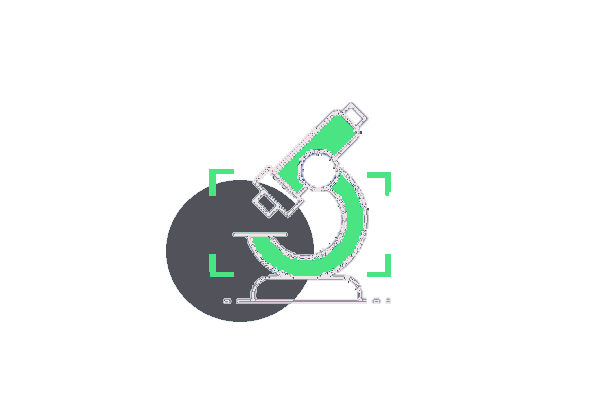
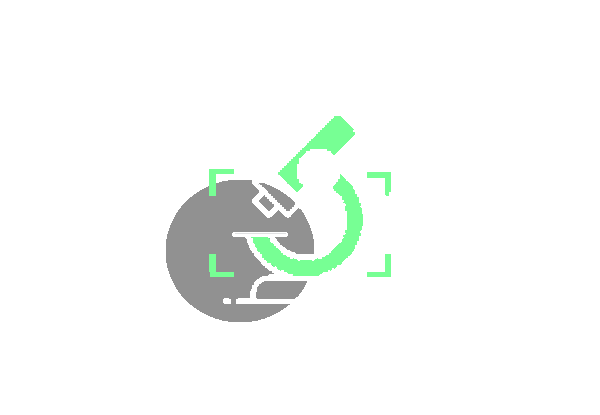
tema dark v2

Changed region(s): [[0.27, 0.2313, 0.66, 0.7807]]

diff --git a/src/renderer/esymia/application/dashboardTabsManagement/tabs/projects/components/ProjectTabContent/MyFiles.tsx b/src/renderer/esymia/application/dashboardTabsManagement/tabs/projects/components/ProjectTabContent/MyFiles.tsx
@@ -12,6 +12,7 @@ import { DraggableProjectCard } from '../droppableDraggableFolderProject/Draggab
 import { SearchUserAndShare } from '../droppableDraggableFolderProject/searchUserAndShare/searchUserAndShare';
 import { CreateNewFolderModal } from '../CreateNewFolderModal';
 import noProjectsIcon2 from '../../../../../../../../../assets/noProjectsIcon2.png';
+import noProjectsIcon2Dark from '../../../../../../../../../assets/noProjectsIcon2Dark.png';
 import { Folder } from '../../../../../../model/esymiaModels';
 import { setShowCreateNewProjectModal, ThemeSelector } from '../../../../../../store/tabsAndMenuItemsSlice';
 
@@ -40,7 +41,7 @@ const MyFiles: React.FC<MyFilesProps> = ({
 
   return (
     <DndProvider backend={HTML5Backend}>
-      <div className={`box ${theme === 'light' ? 'bg-white' : 'bg-bgColorDark2'} w-full h-[470px]`}>
+      <div className={`box ${theme === 'light' ? 'bg-white text-textColor' : 'bg-bgColorDark2 text-textColorDark'} w-full h-[470px]`}>
         {/* <div className="flex p-2 gap-4 items-center">
           <div className="sm:w-3/5 w-1/5">
             <h5 className="text-base">Files</h5>
@@ -148,13 +149,13 @@ const MyFiles: React.FC<MyFilesProps> = ({
           ) : (
             <div className="text-center p-[20px]">
               <img
-                src={noProjectsIcon2}
+                src={theme === 'light' ? noProjectsIcon2 : noProjectsIcon2Dark}
                 className="my-[50px] mx-auto"
                 alt="No Projects Icon"
               />
               <p>No projects for now.</p>
               <button
-                className="button buttonPrimary lg:text-base text-sm mt-5"
+                className={`button buttonPrimary ${theme === 'light' ? '' : 'bg-secondaryColorDark text-textColor'} lg:text-base text-sm mt-5`}
                 data-toggle="modal"
                 data-target="#createNewProjectModal"
                 data-testid="createProjectButton"

diff --git a/src/renderer/esymia/application/simulationTabsManagement/sharedElements/Models.tsx b/src/renderer/esymia/application/simulationTabsManagement/sharedElements/Models.tsx
@@ -3,6 +3,8 @@ import React, { ReactNode } from 'react';
 import {useSelector} from "react-redux";
 import {selectedProjectSelector} from "../../../store/projectSlice";
 import noModelsIcon from '../../../../../../assets/noModelsIcon.png';
+import noModelsIconDark from '../../../../../../assets/noModelsIconDark.png';
+import { ThemeSelector } from '../../../store/tabsAndMenuItemsSlice';
 
 interface ModelsProps {
     children: ReactNode
@@ -11,6 +13,7 @@ interface ModelsProps {
 export const Models: React.FC<ModelsProps> = ({children}) => {
 
     const selectedProject = useSelector(selectedProjectSelector)
+    const theme = useSelector(ThemeSelector)
 
     return(
         <>
@@ -19,7 +22,7 @@ export const Models: React.FC<ModelsProps> = ({children}) => {
                     {children}
                 </div>
                 : <div className="text-center ">
-                    <img src={noModelsIcon} className="mt-[50px] mx-auto" alt='No Models'/>
+                    <img src={theme === 'light' ? noModelsIcon : noModelsIconDark} className="mt-[50px] mx-auto" alt='No Models'/>
                     <h5>No Model</h5>
                     <p className="mt-[50px]">Use the icon from the Tool Bar <br/> to import a 3D CAD File.
                     </p>

diff --git a/src/renderer/esymia/application/simulationTabsManagement/tabs/simulator/SimulatorLeftPanelTab.tsx b/src/renderer/esymia/application/simulationTabsManagement/tabs/simulator/SimulatorLeftPanelTab.tsx
@@ -5,6 +5,7 @@ import {FaCircle} from "react-icons/fa";
 import {Disclosure, Switch, Transition} from '@headlessui/react'
 import {MdOutlineKeyboardArrowDown} from "react-icons/md";
 import noMaterialsIcon from '../../../../../../../assets/noMaterialsIcon.png'
+import noMaterialsIconDark from '../../../../../../../assets/noMaterialsIconDark.png'
 import { Material } from '../../../../../cad_library';
 import { ThemeSelector } from '../../../../store/tabsAndMenuItemsSlice';
 
@@ -151,7 +152,7 @@ export const SimulatorLeftPanelTab: React.FC<SimulatorLeftPanelTabProps> = (
 
                 </div> :
                 <div className="text-center">
-                    <img src={noMaterialsIcon} className="mx-auto mt-[50px]" alt='No Materials'/>
+                    <img src={theme === 'light' ? noMaterialsIcon : noMaterialsIconDark} className="mx-auto mt-[50px]" alt='No Materials'/>
                     <h5>No Materials</h5>
                     <p className="mt-[50px]">Apply the materials on the model directly in the CAD</p>
                 </div>

diff --git a/src/renderer/esymia/application/simulationTabsManagement/tabs/modeler/Materials.tsx b/src/renderer/esymia/application/simulationTabsManagement/tabs/modeler/Materials.tsx
@@ -3,11 +3,14 @@ import { FaCircle } from 'react-icons/fa';
 import { useSelector } from 'react-redux';
 import { selectedProjectSelector } from '../../../../store/projectSlice';
 import noMaterialsIcon from '../../../../../../../assets/noMaterialsIcon.png';
+import noMaterialsIconDark from '../../../../../../../assets/noMaterialsIconDark.png';
+import { ThemeSelector } from '../../../../store/tabsAndMenuItemsSlice';
 
 interface MaterialsProps {}
 
 export const Materials: React.FC<MaterialsProps> = () => {
   const selectedProject = useSelector(selectedProjectSelector);
+  const theme = useSelector(ThemeSelector)
 
   return (
     <>
@@ -45,7 +48,7 @@ export const Materials: React.FC<MaterialsProps> = () => {
       ) : (
         <div className="text-center">
           <img
-            src={noMaterialsIcon}
+            src={theme === 'light' ? noMaterialsIcon : noMaterialsIconDark}
             className="mx-auto mt-[50px]"
             alt="No Materials"
           />

diff --git a/src/renderer/esymia/application/simulationTabsManagement/tabs/physics/PhysicsLeftPanelTab.tsx b/src/renderer/esymia/application/simulationTabsManagement/tabs/physics/PhysicsLeftPanelTab.tsx
@@ -14,6 +14,7 @@ import {
   unsetScatteringValue,
 } from '../../../../store/projectSlice';
 import noPhysicsIcon from '../../../../../../../assets/noPhysicsIcon.png';
+import noPhysicsIconDark from '../../../../../../../assets/noPhysicsIconDark.png';
 import { useEffectNotOnMount } from '../../../../hook/useEffectNotOnMount';
 import { isTerminationNameValid } from './portManagement/selectPorts/portLumpedProbeGenerator';
 import { DebounceInput } from 'react-debounce-input';
@@ -298,7 +299,7 @@ export const PhysicsLeftPanelTab: React.FC<PhysicsLeftPanelTabProps> = () => {
       ) : (
         <div className="text-center">
           <img
-            src={noPhysicsIcon}
+            src={theme === 'light' ? noPhysicsIcon : noPhysicsIconDark}
             className="mx-auto xl:mt-[20px] w-1/4"
             alt="No Physics"
           />

diff --git a/src/renderer/esymia/application/dashboardTabsManagement/tabs/Simulations.tsx b/src/renderer/esymia/application/dashboardTabsManagement/tabs/Simulations.tsx
@@ -19,6 +19,7 @@ import {
 } from '../../../store/tabsAndMenuItemsSlice';
 import { Folder, Simulation } from '../../../model/esymiaModels';
 import noresultfound from '../../../../../../assets/noresultfound.png';
+import noresultfoundDark from '../../../../../../assets/noresultfoundDark.png';
 import { ImSpinner } from 'react-icons/im';
 import { setPortsFromS3 } from '../../simulationTabsManagement/tabs/physics/Physics';
 import { IoCheckmark, IoFilterSharp } from 'react-icons/io5';
@@ -282,7 +283,7 @@ export const Simulations: React.FC<SimulationsProps> = ({ maxH }) => {
       ) : (
         <div>
           <img
-            src={noresultfound}
+            src={theme === 'light' ? noresultfound : noresultfoundDark}
             className="my-[46px] mx-auto"
             alt="No Results Icon"
           />
